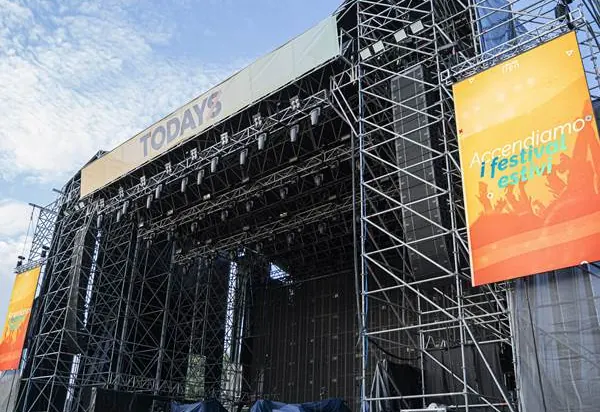
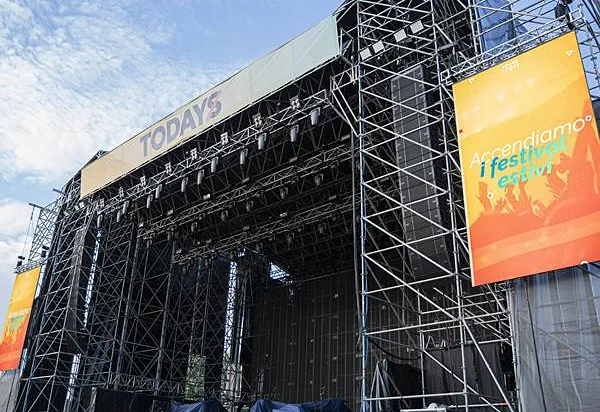
Solutions archive: DB 3 on the Professional Audio card + drop a 330KB JPEG
Points the /solutions/ Professional Audio card at the same DB 3 fallback
the homepage now uses, so both surfaces agree. Both pages read the single
home_sol1_img setting, so one Settings value drives both.

Re-encodes DB 3 with a light unsharp pass (r0.8/55%/t3) before WebP q86.
The source is an already-compressed 600px WebP that the ~380px card
upscales on 2x displays, so the pass offsets that softening; checked
visually for artifact blooming on the truss lattice and banner text.
Still pre-cropped to 600x412 for the 16/11 slot, trimmed 80% from the
top so only empty sky is lost.

Also switches the CTA band on this page from cta-building.jpg (330KB) to
the cta-building.webp (133KB) already sitting in the repo unused. Same
image, ~197KB less on every /solutions/ view.

diff --git a/soundcreations/archive-sc_solution.php b/soundcreations/archive-sc_solution.php
@@ -16,7 +16,7 @@ if ( defined( 'ABSPATH' ) === false ) {
 get_header();
 
 $sc_sol_hero  = SC_THEME_URI . '/assets/img/solutions-hero.jpg';
-$sc_cta_photo = SC_THEME_URI . '/assets/img/cta-building.jpg';
+$sc_cta_photo = SC_THEME_URI . '/assets/img/cta-building.webp';
 
 ?>
 
@@ -39,7 +39,7 @@ $sc_cta_photo = SC_THEME_URI . '/assets/img/cta-building.jpg';
 		<div class="sc-solgrid">
 			<?php
 			$sc_sols = array(
-				array( 'solution-professional-audio.jpg', 'Professional Audio', 'Powerful, intelligible and reliable sound systems designed around your room and application.', '/solutions/professional-audio/', 'home_sol1_img' ),
+				array( 'solution-db3.webp', 'Professional Audio', 'Powerful, intelligible and reliable sound systems designed around your room and application.', '/solutions/professional-audio/', 'home_sol1_img' ),
 				array( 'solution-acoustics.jpg', 'Acoustics', 'Acoustics treated as an engineering discipline: measure, analyze, design, treat and verify for clear, intelligible sound.', '/solutions/acoustics/', 'home_sol2_img' ),
 				array( 'solution-av-integration.jpg', 'Sound & Acoustic Integration', 'Professional sound and acoustic systems, installed, commissioned and calibrated by our technical team.', '/solutions/installation/', 'home_sol3_img' ),
 			);
